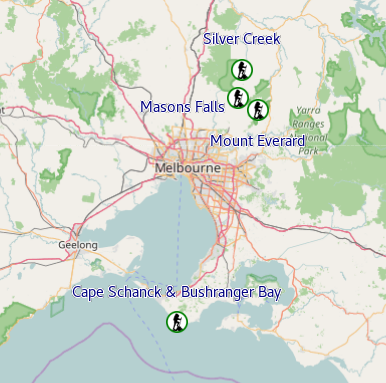
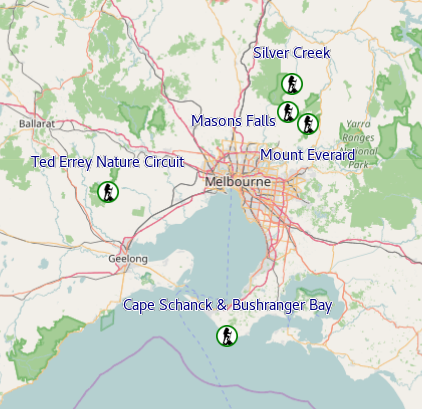
Added Ted Errey Nature Circuit

diff --git a/docs/index.md b/docs/index.md
@@ -2,6 +2,10 @@
 
 ![Hike Location Overview](overview.png)
 
+## Brisbane Ranges National Park (VIC/Australia)
+
+* [Ted Errey Nature Circuit](brisbaneranges/tederreynaturecircuit.md) 12.2km (loop)
+
 ## Kinglake National Park (VIC/Australia)
 
 * [Masons Falls loop](kinglakenationalpark/masonsfalls.md) 15.9km (loop)

diff --git a/docs/brisbaneranges/tederreynaturecircuit.md b/docs/brisbaneranges/tederreynaturecircuit.md
@@ -4,7 +4,7 @@ A 12.2km loop track via Anakie Gorge and Ted Errey Nature Circuit
 
 ## Elevation
 
-![Elevation](CapeSchanckandBushrangerBay-500m_elev.png)
+![Elevation](TedErreyNatureCircuit_elev.png)
 
 ## Map
 
